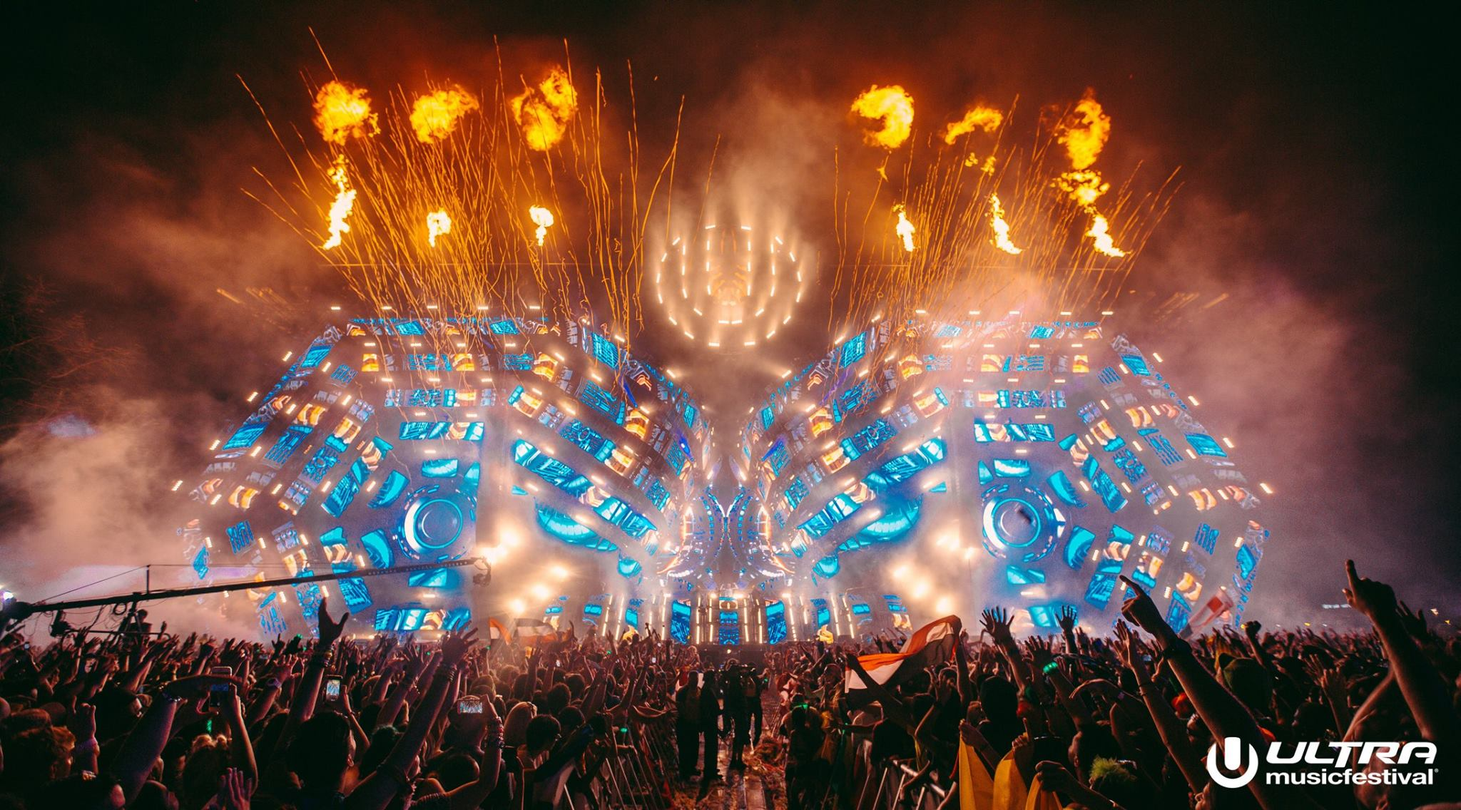
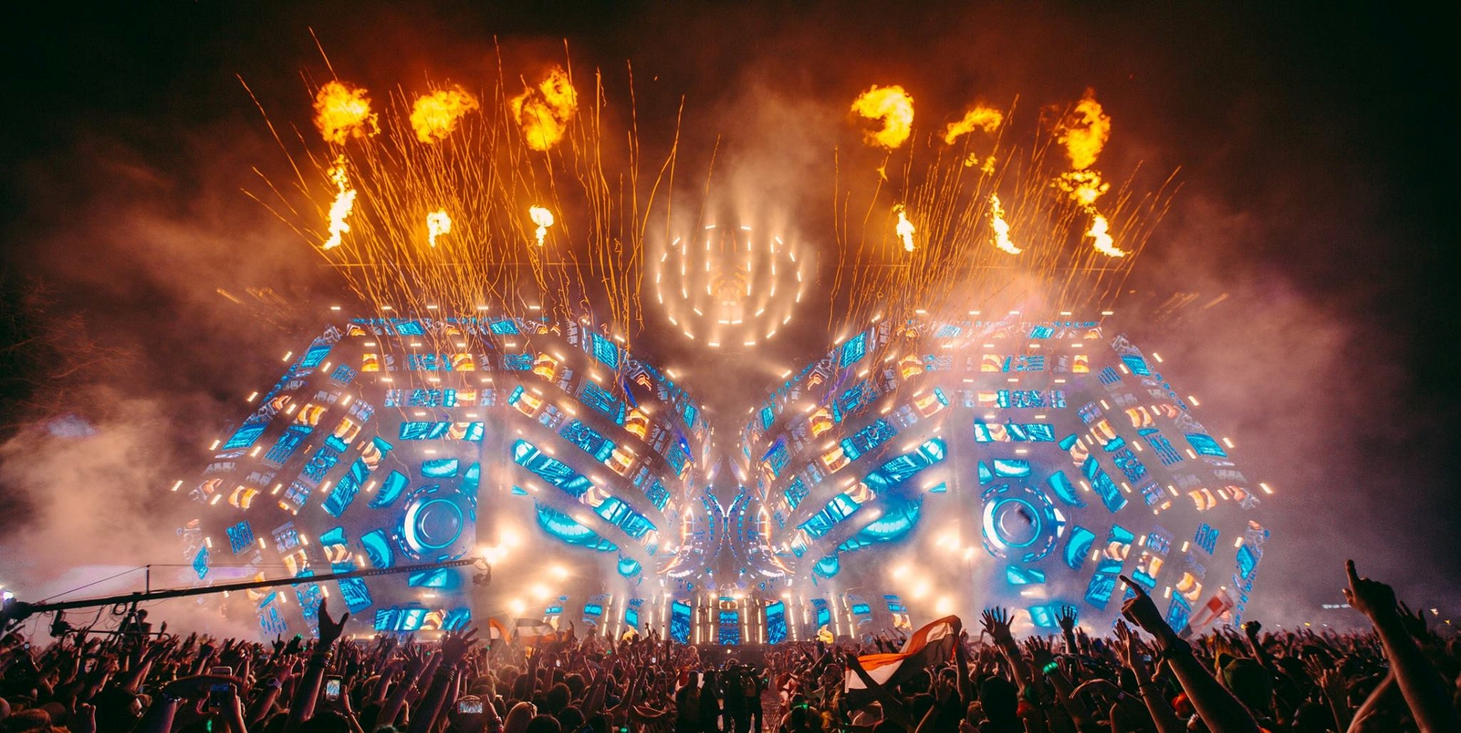
lan3

diff --git a/index.html b/index.html
@@ -41,7 +41,8 @@
     </div>
 
     <!-- Slider -->
-    <div id="slider" style="background: url(/assest/img/slider/slider2.jpg) top center / cover no-repeat">
+    <div id="slider" >
+      <img src="./assest/img/slider/ultrams.jpg" alt="slider1">
       <div class="text-content">
         <h2 class="text-heading">
           New York

diff --git a/assest/css/style.css b/assest/css/style.css
@@ -178,11 +178,11 @@ body{
 }
 
 /* Slider */
-#slider{
+#slider img{
   position: relative;
   margin-top: 46.5px;
-  padding-top: 50%;
-  
+  width: 100%;
+  display: block;
 }
 
 #slider .text-content{
